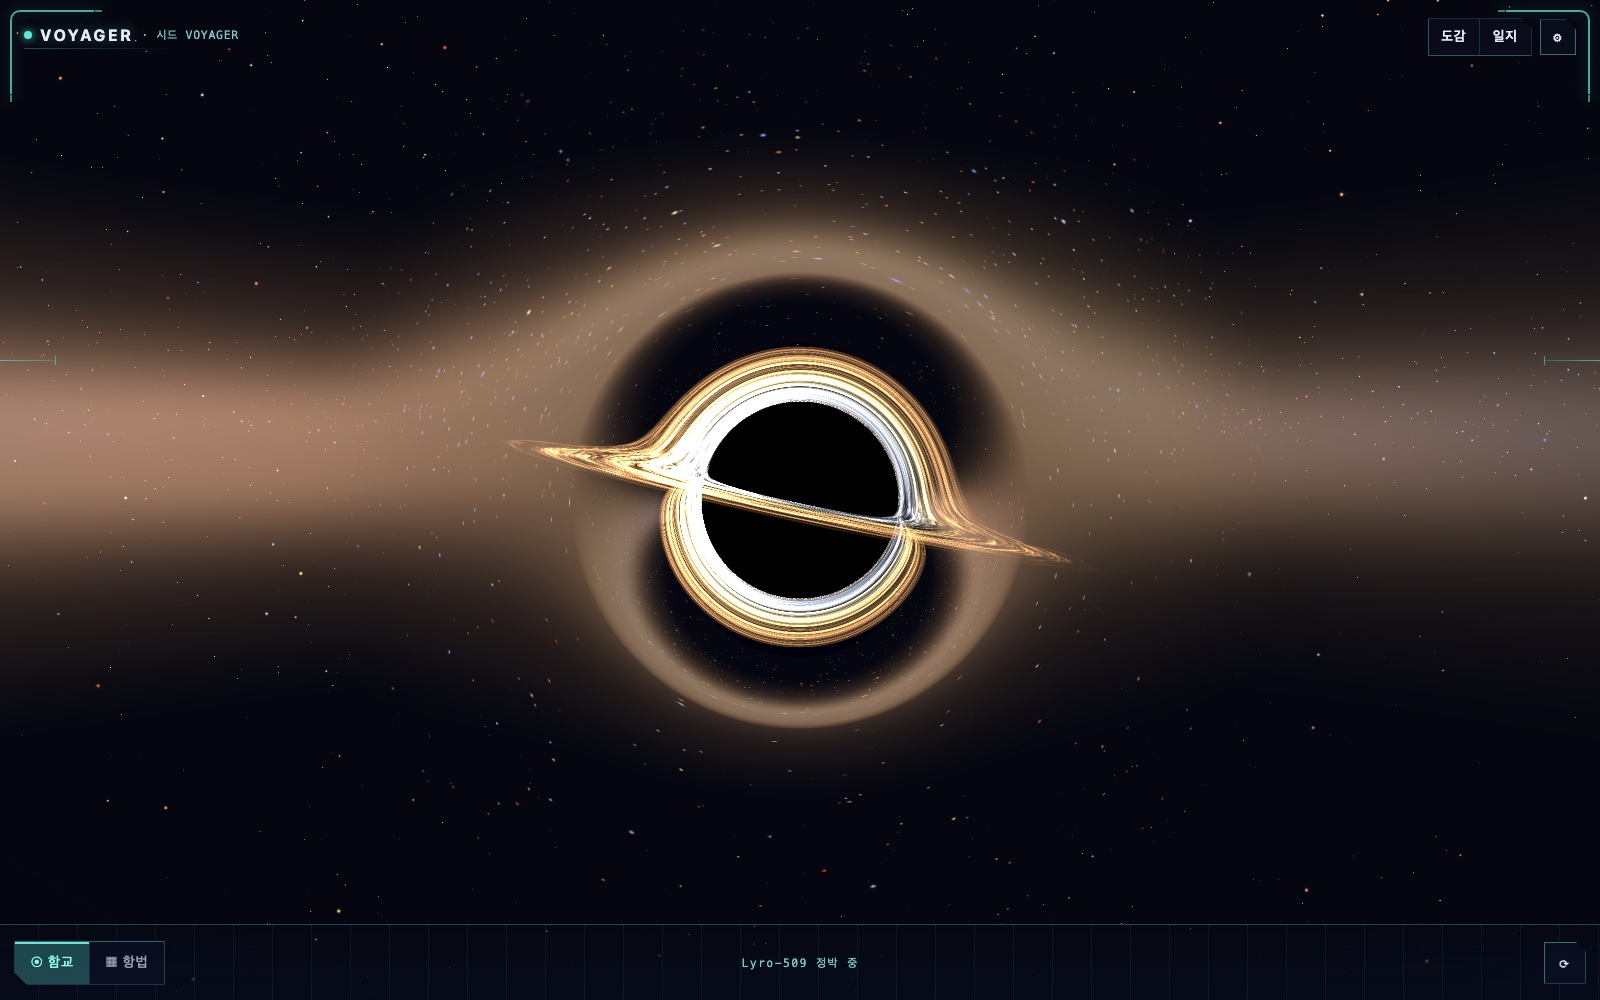
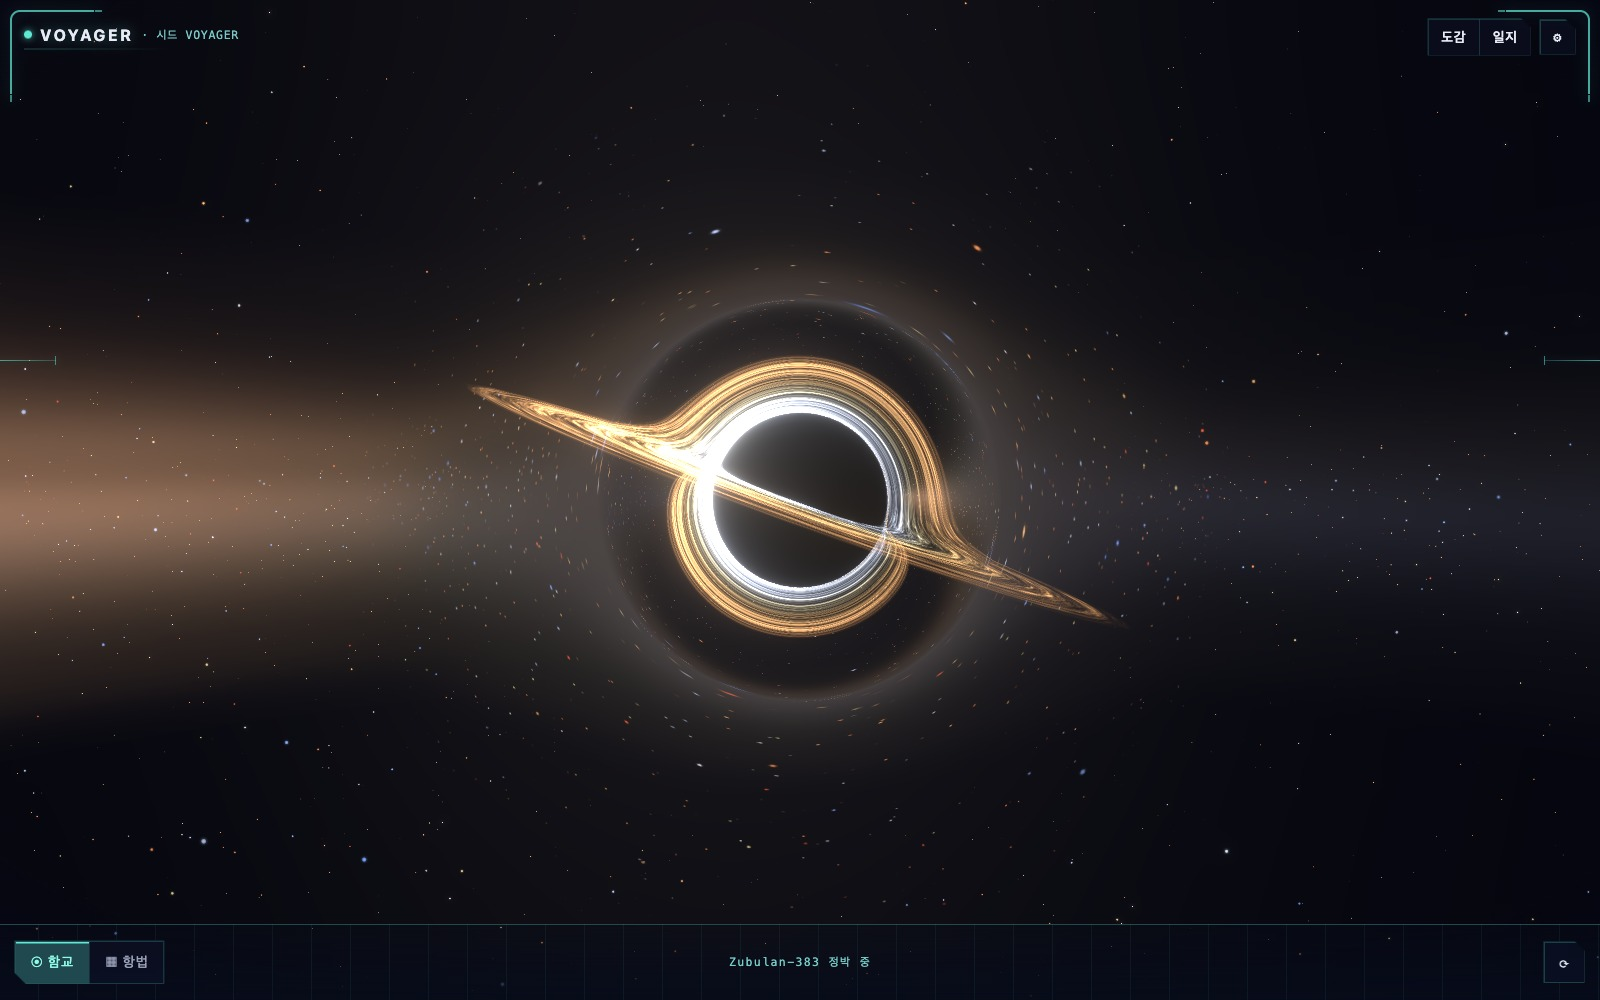
docs: README 이색 천체 스크린샷 교체 — 블랙홀 Zubulan-383·펄서 쌍성 Nashiuss-802
블랙홀은 배경 먼지 덩어리가 화면을 덮던 Lyro-509 대신 먼지 띠가
비스듬히 흐르는 Zubulan-383으로, 펄서는 삼중성 Rigix-669 대신
관측 사례가 실재하는 펄서+A형 쌍성 Nashiuss-802로 교체 (삼중성
펄서는 PSR J0337+1715 단 1건, 그마저 동반이 모두 백색왜성).

Changed region(s): [[0.0, 0.186, 1.0, 0.744], [0.9062, 0.031, 0.9688, 0.062], [0.4688, 0.961, 0.5312, 0.992]]

diff --git a/README.md b/README.md
@@ -9,17 +9,17 @@
 > [실제 빌드](https://voyager-ii.vercel.app/)의 그 좌표로 바로 접속해 직접 둘러볼 수 있어요 —
 > 같은 좌표는 누구에게나 같은 모습입니다.
 
-<a href="https://voyager-ii.vercel.app/?seed=VOYAGER&star=0:-1:2:3">
-  <img src="docs/images/blackhole.jpg" alt="중력 렌즈 블랙홀 Lyro-509 — 강착원반과 포톤 링" />
+<a href="https://voyager-ii.vercel.app/?seed=VOYAGER&star=2:1:2:0">
+  <img src="docs/images/blackhole.jpg" alt="중력 렌즈 블랙홀 Zubulan-383 — 강착원반과 포톤 링" />
 </a>
 
-<sub>🕳 <b>Lyro-509</b> · 블랙홀 — 실시간 셰이더로 그린 강착원반·포톤 링. <a href="https://voyager-ii.vercel.app/?seed=VOYAGER&star=0:-1:2:3">▶ 이 항성계 접속</a></sub>
+<sub>🕳 <b>Zubulan-383</b> · 블랙홀 — 실시간 셰이더로 그린 강착원반·포톤 링. <a href="https://voyager-ii.vercel.app/?seed=VOYAGER&star=2:1:2:0">▶ 이 항성계 접속</a></sub>
 
-<a href="https://voyager-ii.vercel.app/?seed=VOYAGER&star=-3:1:1:2">
-  <img src="docs/images/pulsar.jpg" alt="펄서 Rigix-669 — 상대론적 제트와 청색 자기권 소용돌이" />
+<a href="https://voyager-ii.vercel.app/?seed=VOYAGER&star=3:3:1:0">
+  <img src="docs/images/pulsar.jpg" alt="펄서 쌍성계 Nashiuss-802 — 상대론적 제트와 청색 자기권 소용돌이, A형 동반성" />
 </a>
 
-<sub>✦ <b>Rigix-669</b> · 펄서 — 회전하는 중성자성의 상대론적 쌍제트와 청색 자기권 소용돌이(난류 셰이더). <a href="https://voyager-ii.vercel.app/?seed=VOYAGER&star=-3:1:1:2">▶ 이 항성계 접속</a></sub>
+<sub>✦ <b>Nashiuss-802</b> · 펄서 쌍성계 — 회전하는 중성자성의 상대론적 쌍제트와 청색 자기권 소용돌이(난류 셰이더), A형 동반성. <a href="https://voyager-ii.vercel.app/?seed=VOYAGER&star=3:3:1:0">▶ 이 항성계 접속</a></sub>
 
 <table>
   <tr>